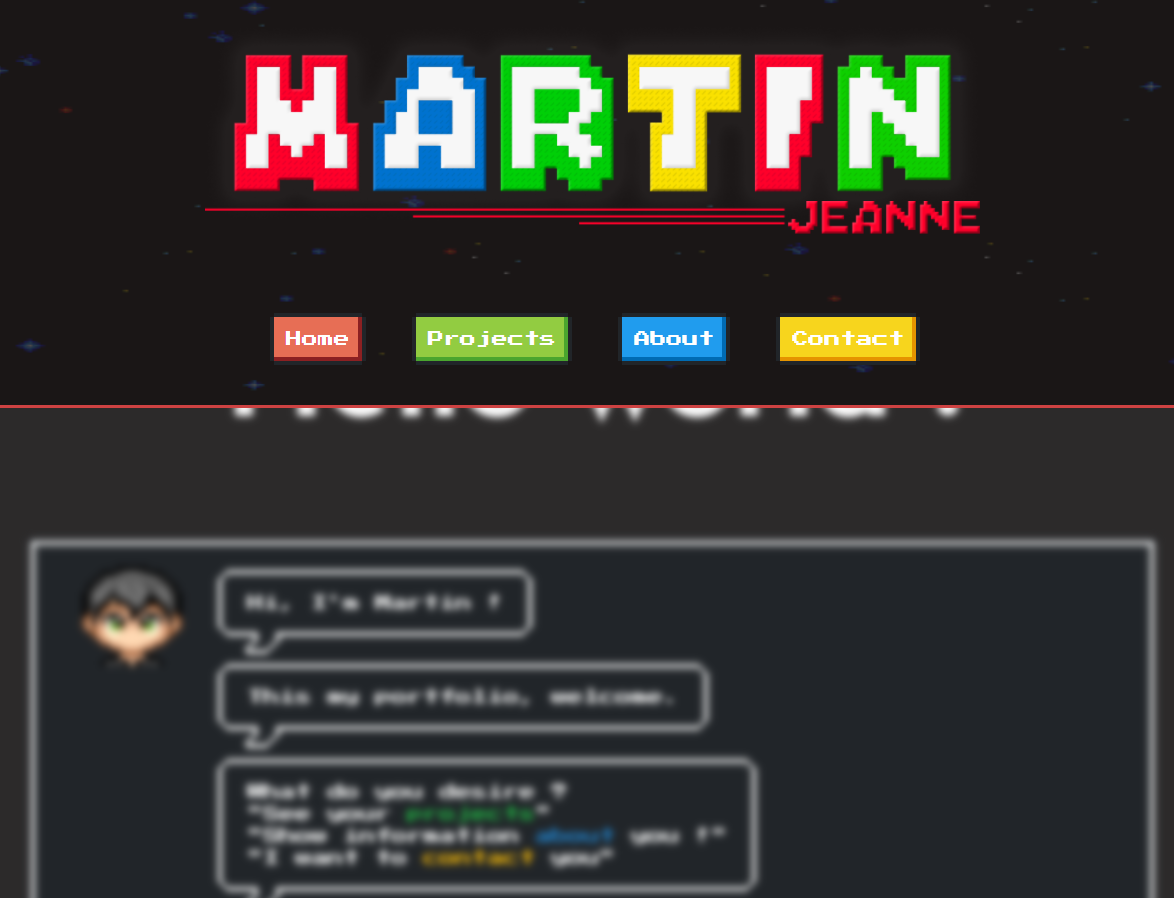
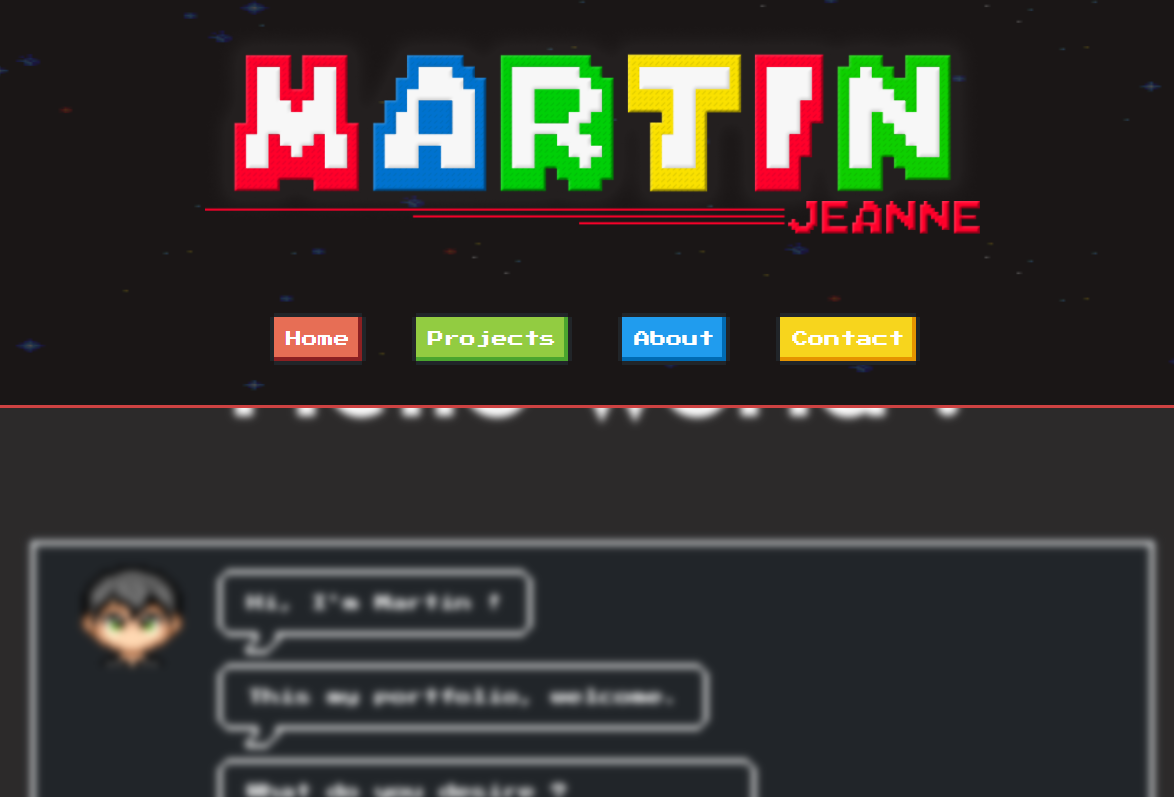
Fixing some marge, adding aos again cause i know how to disable it on mobile

diff --git a/index.html b/index.html
@@ -19,6 +19,9 @@
     <!-- Font Google -->
     <link rel="stylesheet" href="https://fonts.googleapis.com/css?family=Josefin Sans">
 
+    <!-- AOS -->
+    <link rel="stylesheet" href="https://unpkg.com/aos@next/dist/aos.css" />
+
     <!-- Me -->
     <link rel="stylesheet" href="style/style.css">
     <link rel="icon" type="image/png" href="style/img/ico.ico" />
@@ -57,7 +60,6 @@
 
     <div id="page">
         <section id="home">
-            <div></div>
             <h1>Hello world !</h1>
 
             <!-- Balloon 'is-dark'  -->
@@ -114,7 +116,7 @@
 
 
         <section id="projects">
-            <h2>Projects</h2>
+            <h2 data-aos="fade-left">Projects</h2>
             <div class="cards">
                 <div class="ui inverted link card" onclick="scrollToTop();">
                     <div class="ui slide masked reveal image">
@@ -235,13 +237,13 @@
 
 
         <section id="about">
-            <h2>About</h2>
+            <h2 data-aos="fade-right">About</h2>
             <header id="aboutHeader">
-                <figure>
+                <figure data-aos="fade-right">
                     <img id="aboutImg" class="aboutImgHv" src="style/img/Martin_irl.JPG" alt="Picture of Martin">
                     <figcaption id="aboutImgFig"><i>Hover me</i></figcaption>
                 </figure>
-                <div id="aboutText">
+                <div id="aboutText" data-aos="fade-left">
                     <h3>Bonjour !</h3>
                     <p>I'm Martin, 21 years old, here is a <b class="aboutImgHv">picture</b> of me
                         and my <a href="style/pdf/CV-Martin_jeanne.pdf" target="_blank"
@@ -250,55 +252,62 @@
                 </div>
             </header>
 
-            <div>
+            <div data-aos="fade-right">
                 <h3 id="skillsTitle">Skills</h3><i> i practice</i>
             </div>
             <div class="skills">
-                <div class="skill">
+                <div class="skill" data-aos="fade-right">
                     <p class="skillText">HTML & CSS</p>
                     <progress class="nes-progress is-error" value="90" max="100"></progress>
                 </div>
                 <div class="redBar"></div>
-                <div class="skill">
+                <div class="skill" data-aos="fade-left">
                     <p class="skillText">JavaScript</p>
                     <progress class="nes-progress is-warning" value="92" max="100"></progress>
                 </div>
             </div>
             <div class="skills">
-                <div class="skill">
+                <div class="skill" data-aos="fade-right">
                     <p class="skillText">PHP</p>
                     <progress class="nes-progress is-primary" value="78" max="100"></progress>
                 </div>
                 <div class="redBar"></div>
-                <div class="skill">
+                <div class="skill" data-aos="fade-left">
                     <p class="skillText">C#</p>
                     <progress class="nes-progress " value="50" max="100"></progress>
                 </div>
             </div>
             <div class="skills">
-                <div class="skill">
+                <div class="skill" data-aos="fade-right">
                     <p class="skillText">Phyton</p>
                     <progress class="nes-progress is-success" value="40" max="100"></progress>
                 </div>
                 <div class="redBar"></div>
-                <div class="skill">
+                <div class="skill" data-aos="fade-left">
                     <p class="skillText">Java</p>
                     <progress class="nes-progress is-error" value="55" max="100"></progress>
                 </div>
             </div>
             <div class="skills">
-                <div class="skill">
+                <div class="skill" data-aos="fade-right">
                     <p class="skillText">SQL</p>
                     <progress class="nes-progress" value="62" max="100"></progress>
                 </div>
             </div>
         </section>
 
-        <section id="contact">
+        <section id="contact" data-aos="fade-left">
             <h2>Contact</h2>
         </section>
     </div>
 
+    <!-- AOS -->
+    <script src="https://unpkg.com/aos@2.3.1/dist/aos.js"></script>
+    <script>
+        AOS.init({disable: 'mobile'});
+    </script>
+
+    <!-- Me -->
     <script type="text/javascript" src="scripts/index.js"></script>
 </body>
 

diff --git a/style/style.css b/style/style.css
@@ -170,8 +170,7 @@ dialog {
 
 h1 {
     font-size: 10vw;
-    padding-top: 3vh;
-    margin-top: 25vh;
+    padding-top: 4vh;
     margin-bottom: 8vh;
     font-family: 'Josefin Sans';
     text-align: center;
@@ -180,7 +179,7 @@ h1 {
 }
 
 h2 {
-    font-size: 9vw;
+    font-size: 8vw;
     font-family: 'Josefin Sans';
     text-shadow: 5px 5px 20px rgb(0, 0, 0, 0.5);
 }
@@ -191,6 +190,7 @@ h3 {
 }
 
 #home {
+    margin-top: 25vh;
     padding-top: 6vh;
     padding-left: 5vw;
     padding-right: 5vw;
@@ -255,10 +255,6 @@ h3 {
     text-align: end;
 }
 
-.ui.slide.masked.reveal.image {
-    height: 20vh;
-}
-
 .date {
     font-size: 0.85vw;
 }
@@ -284,13 +280,13 @@ h3 {
 }
 
 #about>h2 {
-    margin-bottom: 10vh;
+    margin-bottom: 4.5vh;
 }
 
 #aboutHeader {
     display: flex;
     justify-content: space-between;
-    margin-bottom: 30vh;
+    margin-bottom: 20vh;
 }
 
 #aboutImg {

diff --git a/scripts/index.js b/scripts/index.js
@@ -92,6 +92,4 @@ $(".aboutImgHv").mouseenter(function () {
 $(".aboutImgHv").mouseleave(function () {
     $("#aboutImg").css("box-shadow", "10px 15px 25px 0 rgba(0, 0, 0, .4)");
     $("#aboutImg").css("filter", "grayscale(100%) contrast(120%)");
-    $("#aboutImgFig").css("opacity", "0.4");
-    $("#aboutImgFig").css("padding-right", " 0");
 });
